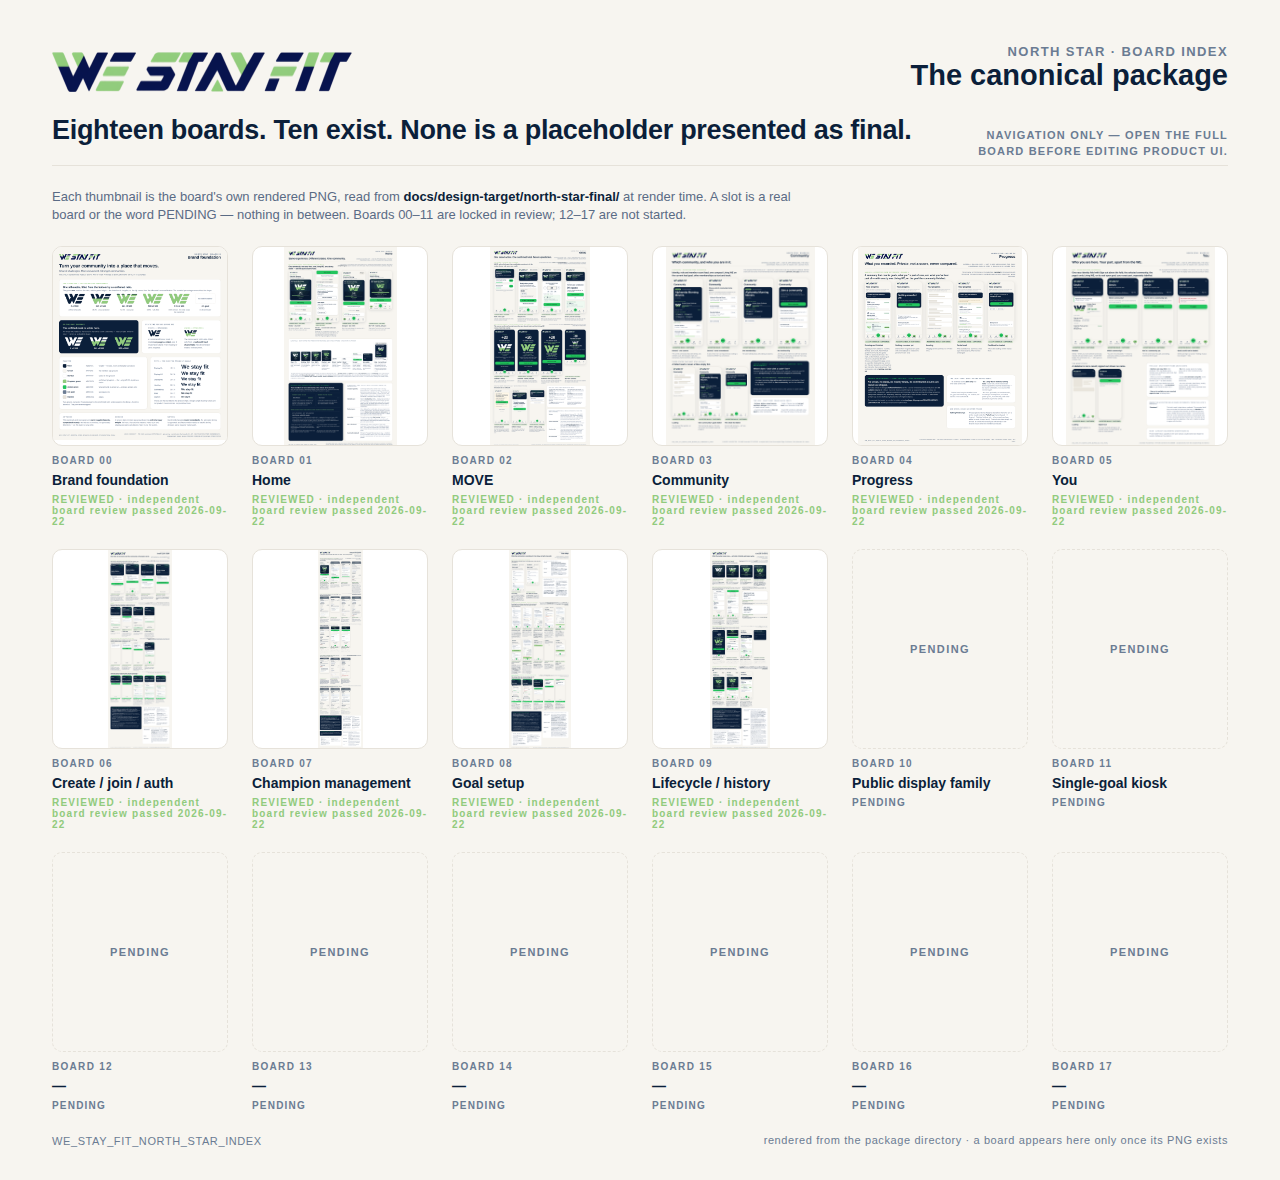
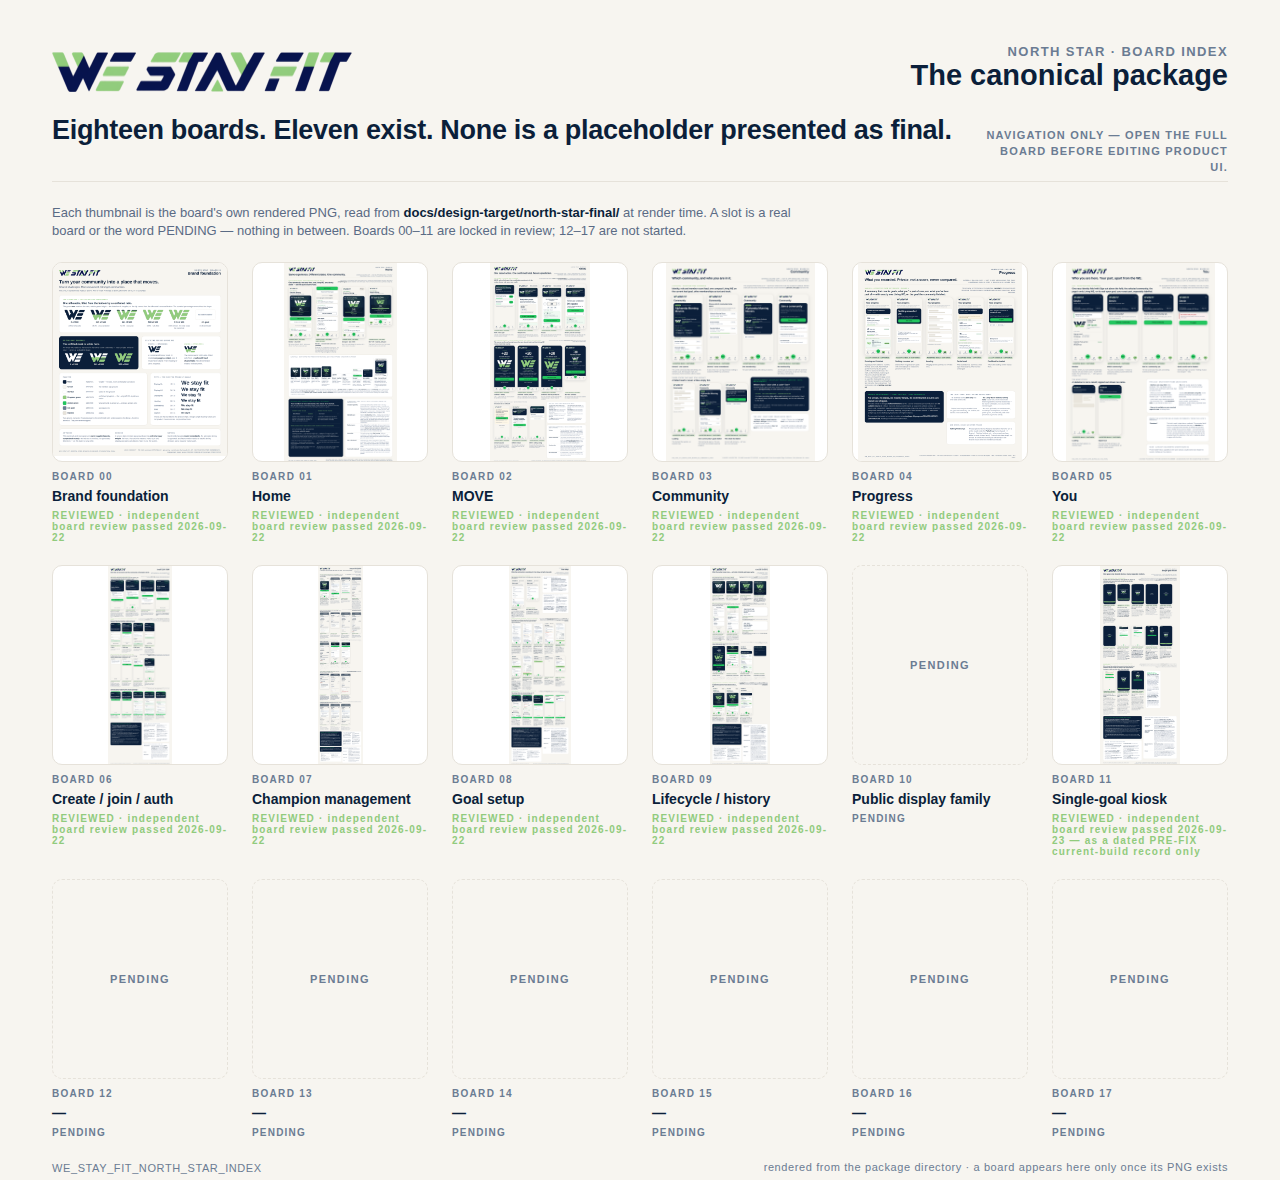
docs(westayfit): Board 11 REVIEWED as a dated PRE-FIX current-build record — status 3 from verdicts 5786608901 / 5786639647; kiosk use HOLD recorded; 1x copy cut; INDEX re-rendered with eleven boards
- README row 11: REVIEWED with the PRE-FIX qualifier (PR #423 at be3ff1b, artifact 10725905242,
  blob 124d3b1); review sentence Boards 00-09 and 11 + INDEX; the row states that the visible
  member tab bar and the illegible Stay / chrome Finish are product holds, and that
  SHARED / UNATTENDED KIOSK USE IS HELD (5786524650) on W5's later finding 5786450648
- board-11 README: status-only review section carrying the verdict's scope, the hold, the
  correction owner (W1B, claude/wsf-kiosk-confinement) and verifier (W5); PNG and the fifteen
  kiosk-current captures byte-untouched as the historical BEFORE
- review-copies: Board 11 1x copy; INDEX.png + INDEX 1x re-rendered; index.mjs headline
  "Eleven exist" (Board 10 is delivered on its own branch and not yet in this package)

Claude-Session: https://claude.ai/code/session_017cby7B21o4bFbnpsa1ciRV

diff --git a/docs/design-target/north-star-final/README.md b/docs/design-target/north-star-final/README.md
@@ -49,8 +49,8 @@ board gets treated as accepted when only its source screens were:
    checked it line by line against the lock verdict (recorded in the board's
    README).
 3. **Independent board review** — the Program Director has visually reviewed
-   the rendered board itself. **Boards 00–09 + INDEX have it as of
-   2026-09-22** — Boards 00–05 + INDEX by Program Director verdict
+   the rendered board itself. **Boards 00–09 and 11 + INDEX have it as of
+   2026-09-23** — Boards 00–05 + INDEX by Program Director verdict
    `5783373780`, a pixel review of the commit-pinned 1× review copies at
    `a912773` (*PASS as the canonical reconstructed 00–05 package*); Board 06
    by Creative Director verdict `5784845039` on PR #404, a pixel review of the
@@ -59,7 +59,11 @@ board gets treated as accepted when only its source screens were:
    `fe82c1e` (artifact `10723837867`, blob `df1a587`); Boards 08 and 09 by
    Creative Director verdicts `5786034310` (PR #409, exported original at
    `5674a86`, artifact `10724116667`, blob `bb72dacc`) and `5786014162`
-   (PR #412, `8aae42d`, artifact `10724485128`, blob `f34cfaf3`). It clears this status for these
+   (PR #412, `8aae42d`, artifact `10724485128`, blob `f34cfaf3`); Board 11 by
+   Creative Director verdicts `5786608901` / `5786639647` on PR #423, a pixel
+   review of the exported original at `be3ff1b` (artifact `10725905242`, blob
+   `124d3b1`), accepted **as a dated PRE-FIX current-build record only** — its
+   row and README carry the kiosk use HOLD. It clears this status for these
    reconstructed artifacts only; it does not newly accept or stage the
    underlying app pages, and it authorises no deployment.
 
@@ -108,7 +112,7 @@ unaffected.
 | 08 | Goal setup | **REVIEWED** · independent board review passed 2026-09-22 (`5786034310`) | `5771436211` | staging-only current-build truth — the two arrival frames frozen at `02e24df`; a CURRENT BUILD strip from W4's real goal-setup captures (#415, source `0757379`); the target drawings kept non-authoritative where they conflict with the lock | [`board-08/…BOARD_08_GOAL_SETUP_FINAL.png`](board-08/WE_STAY_FIT_NORTH_STAR_BOARD_08_GOAL_SETUP_FINAL.png) | `5674a86` | W1B (PR #409); composition PASS `5784966469`, the coverage hold closed by the bounded revision `56fb683`, two captions corrected at `5674a86`; reviewed from the exported original (artifact `10724116667`, blob `bb72dacc`); the PNG's own footer still reads its submission label. Not page acceptance: the route stays available in staging and local emulators, production UI gated. |
 | 09 | Lifecycle / history | **REVIEWED** · independent board review passed 2026-09-22 (`5786014162`) | `5771469193` | lifecycle truth — eleven accepted-build captures read in place, plus the corrected-below-target specimen photographed from a real reach and a real group-level correction (`review/lifecycle-corrected-current/`, W1B's gated producer) | [`board-09/…BOARD_09_LIFECYCLE_HISTORY_FINAL.png`](board-09/WE_STAY_FIT_NORTH_STAR_BOARD_09_LIFECYCLE_HISTORY_FINAL.png) | `8aae42d` | W1B (PR #412); layout PASS `5785588557`, the completeness hold closed by the supplement; reviewed from the exported original (artifact `10724485128`, blob `f34cfaf3`); the PNG's own footer still reads its submission label. No new History route, no dated personal history, no streak. |
 | 10 | Public display family | PENDING | `5771496484` | target | — | — | Device classes are design targets, not installed hardware. |
-| 11 | Single-goal kiosk | PENDING | `5771528649` | target | — | — | Device classes are design targets, not installed hardware. |
+| 11 | Single-goal kiosk | **REVIEWED** · independent board review passed 2026-09-23 (`5786639647`, `5786608901`) — **as a dated PRE-FIX current-build record only** | `5771528649` | current-build truth of `/kiosk/[goalId]` — fifteen real kiosk frames at 800×1280 (+ one 1024×1366) from W1B's gated producer (`review/kiosk-current/`), including the injected unknown-outcome and sign-out-failure states; no target drawing | [`board-11/…BOARD_11_SINGLE_GOAL_KIOSK_FINAL.png`](board-11/WE_STAY_FIT_NORTH_STAR_BOARD_11_SINGLE_GOAL_KIOSK_FINAL.png) | `be3ff1b` | W1B (PR #423); reviewed from the exported original (artifact `10725905242`, blob `124d3b1`); the PNG's own footer still reads its submission label. **The member tab bar on the kiosk contribution screen and the illegible `Stay` / chrome `Finish` labels it photographs are product holds, not accepted behaviour.** **SHARED / UNATTENDED KIOSK USE IS HELD** (`5786524650`): after this board was captured, W5 proved the bar leaves the previous visitor's own identity on the device without Finish/timeout (`5786450648`); correction by W1B on `claude/wsf-kiosk-confinement` (from `d0477cc`), independent verification by W5. This board and its captures are the historical BEFORE; a matched AFTER attaches separately once the fix passes. Device classes are design targets, not installed hardware. |
 | 12 | — | PENDING | — | — | — | — | Not started. Paused until 00–11 clears. |
 | 13 | — | PENDING | — | — | — | — | Not started. |
 | 14 | — | PENDING | — | — | — | — | Not started. |

diff --git a/docs/design-target/north-star-final/board-11/README.md b/docs/design-target/north-star-final/board-11/README.md
@@ -196,3 +196,45 @@ That file belongs to the lead; adding these paths is their call.
 Every claim on the board is a quotation from the lock, a property visible in the
 frame it captions, a value from the evidence set's `fixture.json`, or a fact read
 from a named file in this repository.
+
+## Independent board review — ACCEPTED as a dated PRE-FIX current-build record, 2026-09-23
+
+Creative Director verdicts `5786608901` and `5786639647` on PR #423, a pixel
+review of the exported original at `be3ff1b` (PR #424, run `35799963839`,
+artifact `10725905242`, archive sha256 `b3f3c67c…`; PNG git blob `124d3b1`,
+sha256 `37a40e00…`, 2,572,407 bytes, 2560×6392) — *accepted as a faithful,
+dated record of the CURRENT BUILD, not its safety and not the final kiosk
+design.* Status 3 in the manifest is now REVIEWED with that qualifier.
+Status-only: the PNG bytes and the fifteen `review/kiosk-current/` captures
+are exactly the reviewed bytes; nothing was repainted and the footer's
+submission label was deliberately not re-rendered.
+
+**What the verdict does not accept.** The visible member tab bar on the
+kiosk contribution screen and the illegible `Stay` / chrome `Finish` labels
+(`#0B1F3A` on `#0B1F3A`) that this board photographs are **product holds,
+not accepted behaviour**. They must not become the accepted kiosk.
+
+**SHARED / UNATTENDED KIOSK USE IS HELD** (Director `5786524650`). After this
+board was captured, W5's independent navigation probe proved that an ordinary
+member-tab tap from the kiosk contribution screen leaves the previous
+visitor's own identity and member pages on the shared device, without kiosk
+Finish or timeout (`5786450648`; probe
+`tests-e2e/sprint-w5-kiosk-navigation-isolation.spec.ts`). Returning to the
+kiosk rest screen does clear the account and preserves the account-scoped
+unknown attempt — that defence passes. This later finding supersedes the
+board's own "presence only / nothing more claimed" limit on the tab-bar seam.
+The correction is W1B's separate product patch on `claude/wsf-kiosk-confinement`
+(from `d0477cc`, into `claude/wsf-app-shell`); W5 verifies it independently.
+This board and its captures are preserved as the **historical BEFORE**; a
+matched AFTER attaches separately once the fix passes its own gates.
+
+**Scope of the evidence, as the verdict states it.** The unknown-outcome
+capture uses a request aborted before it reached the server: it proves the
+rendered uncertainty path and the locally retained attempt, not cross-device
+recovery or a server-committed lost response. The successful-Finish and
+failed-sign-out observations have their stated browser scope, not a blanket
+"no data remains" guarantee.
+
+The verdict accepts the reference artifact only: no kiosk release, no app
+release, no staging promotion, no product acceptance, no privacy or security
+clearance, and no Board 12–17 release follows from it.
